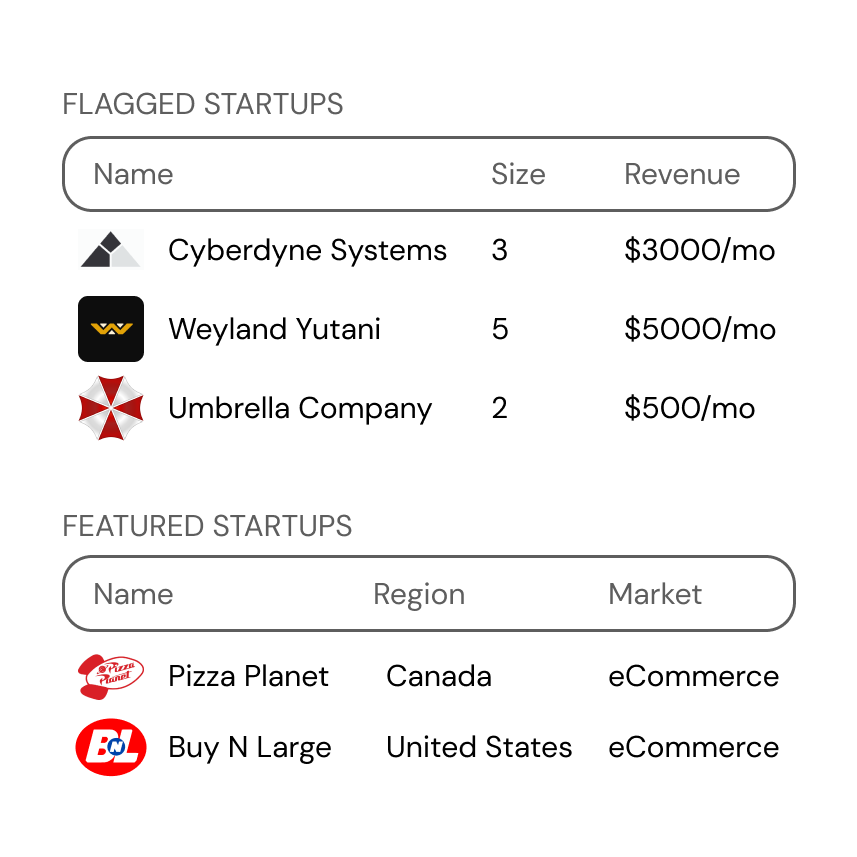
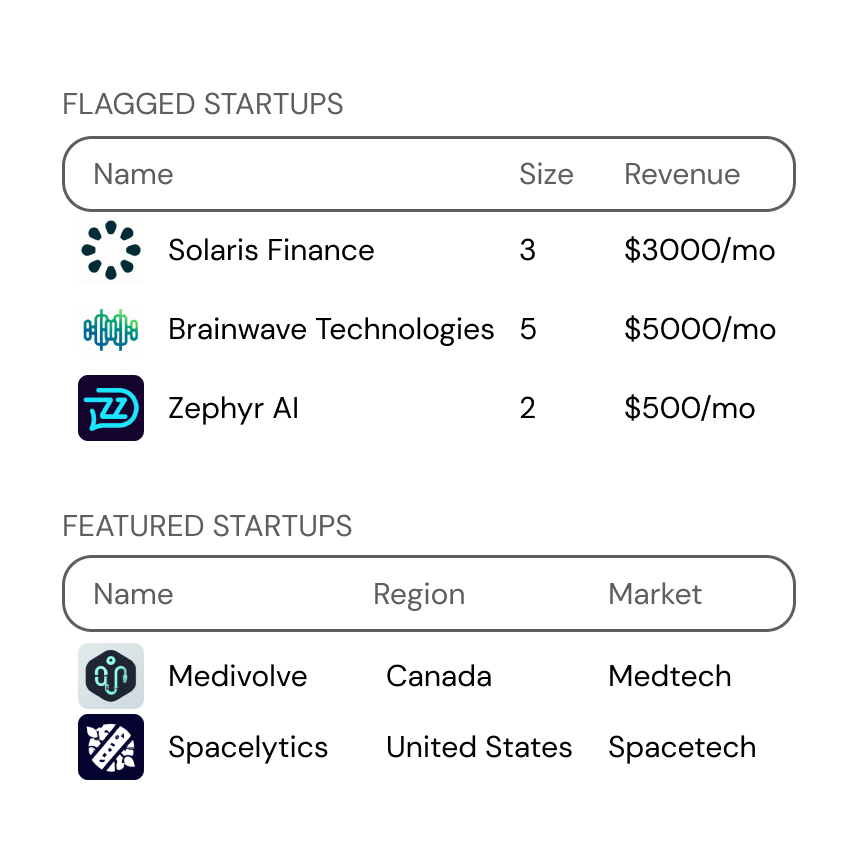
changed startup examples and fixed responsiveness

diff --git a/css/styles.css b/css/styles.css
@@ -41,11 +41,15 @@
     justify-content: space-between;
   }
   .flexCenter {
+    display: flex;
     align-items: center;
     justify-content: center;
   }
   .flexWrap {
     flex-wrap: wrap;
+  }
+  .infoMargin {
+    width: 1000px;
   }
   #bar1, #bar2, #bar3 {
     width: 35px;
@@ -305,8 +309,6 @@
     display: flex;
     flex-wrap: wrap;
     /* gap: 10px; */
-    justify-content: space-between;
-    align-items: center;
   }
   .wrapList {
     display: flex;
@@ -571,10 +573,13 @@
       width: 350px;
     }
     .stepsBox {
-      width: 500px;
+      width: 400px;
     }
     .speakerTitle {
         font-size: 30px;
+    }
+    .infoMargin {
+        width: 800px;
     }
   }
   @media only screen and (max-width: 810px) {
@@ -639,6 +644,12 @@
     } */
     .speakerTitle {
         font-size: 30px;
+    }
+    .stepsBox {
+        width: 600px;
+    }
+    .infoMargin {
+        width: 500px;
     }
   }
   @media only screen and (max-width: 510px) {
@@ -758,6 +769,13 @@
       height: 250px;
       width: 250px;
     }
+    .infoMargin {
+        width: 300px;
+    }
+    .stepsBox {
+        width: 300px;
+        padding: 0;
+    }
   }
   @media only screen and (max-width: 400px) {
     .whiteTitle {
@@ -789,5 +807,25 @@
     .infoImg {
       height: 200px;
       width: 200px;
+    }
+    .infoMargin {
+        width: 250px;
+    }
+  }
+  @media only screen and (max-width: 280px) {
+    .stepsBox {
+        width: 250px;
+    }
+    .infoMargin {
+        width: 250px;
+    }
+    .num {
+        width: 100%;
+    }
+    .ecosystem {
+        width: 280px;
+    }
+    .numCol {
+        padding: 30px 0;
     }
   }

diff --git a/index.html b/index.html
@@ -68,7 +68,7 @@
       </div>
     </div>
 
-    <div class="wrapGrid pageMargins">
+    <div class="wrapGrid flexCenter">
       <div class="emptySpace"></div>
       <div class="whiteTitle" style="color: #721cff">
         Our Startup Funnel
@@ -92,7 +92,7 @@
       </div>
 
       <div class="emptySpace">
-        <img height="100" width="100" class="arrow" src="./assets/arrow1.png" style="transform: translateX(-30px);"  />
+        <img height="100" width="100" class="arrow" src="./assets/arrow1.png" style="transform: translateX(-70px);"  />
       </div>
 
       <div class="flexRow spaceBetween textCol reverseRow">  <!--  class="blackBox animationCard" -->
@@ -138,7 +138,7 @@
       </div>
 
       <div class="emptySpace">
-        <img height="50" width="100" class="arrow" src="./assets/arrow3.png"  />
+        <img height="50" width="100" class="arrow" src="./assets/arrow3.png" style="transform: translateX(70px);"  />
       </div>
 
       <div class="flexRow spaceBetween textCol reverseRow">  <!--  class="blackBox animationCard" -->
@@ -161,7 +161,7 @@
       </div>
 
       <div class="emptySpace"></div>
-      <div class=""> 
+      <div class="infoMargin"> 
         <div class="whiteTitle" style="color: #721cff">
           Our Private Events
         </div>
@@ -206,7 +206,7 @@
         </div>
       </div>
       <div class="emptySpace"></div>
-      <div class="">
+      <div class="infoMargin">
         <div class="whiteTitle" style="color: #721cff">
           Accelerators
         </div>
